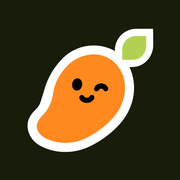
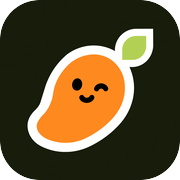
refine(brand): esquinas redondeadas en iconos + mascota en círculo en el header
- Favicon e iconos PWA ("any"/apple-touch/app-router) con esquinas
  redondeadas (radio 22%). El maskable queda full-bleed (lo redondea el SO).
- Header: la mascota pasa a la versión dentro del círculo oscuro (avatar)
  en vez del mango flotante.

diff --git a/src/components/brand-lockup.tsx b/src/components/brand-lockup.tsx
@@ -26,13 +26,14 @@ interface BrandLockupProps {
  * Brand lockup: [mango mascot] [mangui wordmark] side by side.
  * Designed for dark backgrounds only.
  *
- * Proportions: mascot height = size × 1.25 (optically balanced — the mascot's
- * orange mass reads heavier than the slim wordmark, so slightly taller keeps
- * visual weight even). Gap = size × 0.35 (~10 px at size=28).
+ * Proportions: mascot height = size × 1.45 (the circular avatar has ~55%
+ * mango fill, so it needs to be slightly larger than the old floating mango
+ * to keep the mango itself optically matched to the wordmark height).
+ * Gap = size × 0.35 (~10 px at size=28).
  */
 export function BrandLockup({ size = 28, showWord: _showWord, wordClassName, className }: BrandLockupProps) {
   const wordmarkW = Math.round(size * (LOGO_INTRINSIC_W / LOGO_INTRINSIC_H));
-  const markH = Math.round(size * 1.25);
+  const markH = Math.round(size * 1.45);
   const markW = Math.round(markH * (MARK_INTRINSIC_W / MARK_INTRINSIC_H));
   const gap = Math.round(size * 0.35);
   return (
